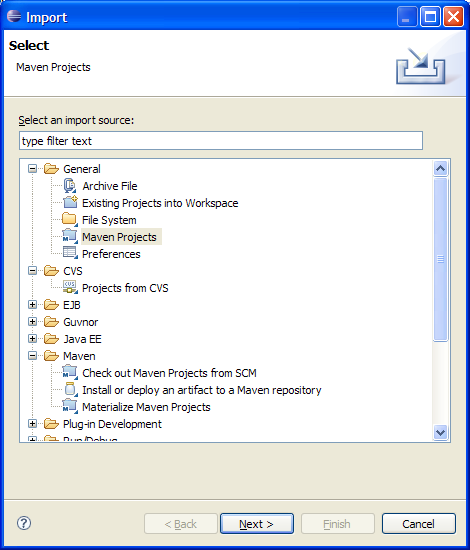
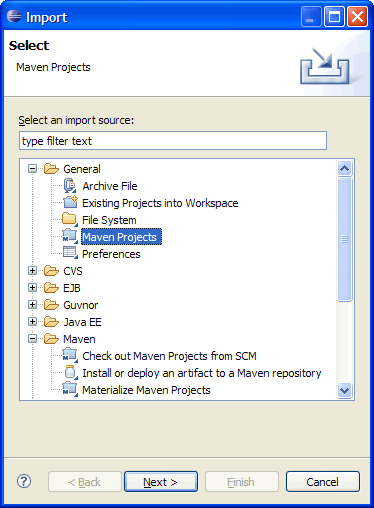
Updated tutorial: 02-eclipse.html

Changed region(s): [[0.0, 0.0, 1.0, 1.0], [0.0, 0.9744, 0.0294, 1.0]]

diff --git a/doc/tutorial/02-eclipse.html b/doc/tutorial/02-eclipse.html
@@ -152,13 +152,11 @@
   </li>
 </ol>
 
-
 <h2> Define a Data Source</h2>
 <ol>
 	<li>
 		<a href="01-gettingstarted.html#activate-a-database-profile">Create a database as outlined here.</a>
 	</li>
-	
 	<li>
 		In Preferences, navigate to <strong>Data Management>Connectivity>Driver Definitions</strong>.
 		Click <strong>Add...</strong> to add a new driver.
@@ -189,23 +187,21 @@
 	</li>
 </ol>
 
-<h2>Import a Mavenized Seam Project Into Eclipse</h2>
+<h2>Import a Mavenized Seam Project</h2>
 <p>To import a mavenized Seam project to Eclipse (i.e. a project that is already installed on your 
 	computer), follow these steps:
 </p>
 <ol>
   <li>
-		<a href="01-gettingstarted.html#use-as-template">Use the <code>seam-refimpl</code> project 
-		as a template</a> to set up the project.
+		<a href="01-gettingstarted.html#use-as-template">Export the <code>seam-refimpl</code> project</a> 
+		to a folder of your choice, the <code>${SEAM_TUTORIAL}</code> folder.
 	</li>
   <li>
-		<a href="01-gettingstarted.html#switch-to-development-mode">Switch to developmentmode</a>
+		<a href="01-gettingstarted.html#modfy-the-poms">Modify the POMs</a> and
+		<a href="01-gettingstarted.html#switch-to-development-mode">switch to development mode</a>
 	</li>
   <li>
-		Copy <code>${SEAM_TUTORIAL}/config/profiles/profiles.xml</code> to <code>${SEAM_TUTORIAL}</code>
-	</li>
-  <li>
-		Navigate to the ${SEAM_TUTORIAL} folder using a command shell and execute maven commands:<br/>
+		Navigate to the <code>${SEAM_TUTORIAL}</code> folder using a command shell and execute maven commands:<br/>
     <code>mvn clean -Punexplode<br/>
     mvn install -Pexplode (remember to point the server to the correct deploy folder in
 		<code>profiles.xml</code>)<br/>
@@ -216,9 +212,9 @@
     properly when m2eclipse is installed.
   </li>
   <li>
-    Import project:
+    Import the project:
     <img src="img/eclipse-import.png" style="width:250px; display:block;" />
-    <img src="img/eclipse-import-maven-01.png" style="width:400px; display:block;" />
+    <img src="img/eclipse-import-maven-01.png" style="width:340px; display:block;" />
     <img src="img/eclipse-import-maven-02.png" style="width:500px; display:block;" />
 		You will notice a build error in the Maven console:<br/>
     <img src="img/eclipse-import-maven-08.png" style="width:800px; display:block;" />
@@ -315,11 +311,39 @@
 	</li>
 </ol>
 
+
 <h2>Configure JBoss Tools for a Project</h2>
 <p>JBoss Tools has a lot of useful wizards and automated tasks, like reverse engeneering from 
-	an existing database and generation of user interface during creation of an entity bean. 
-	This section outlines the steps needed to configure JBoss Toos for a project.
+	an existing database and automated generation of Seam framework classes and user interface during 
+	creation of entity beans.  This section outlines the steps needed to configure JBoss Toos for a 
+	project.
 </p>
+<ol>
+	<li>
+	  The parent module:
+    <img src="img/eclipse-parent-properties-01.png" style="width:700px; display:block;" />
+    <img src="img/eclipse-parent-properties-02.png" style="width:700px; display:block;" />
+    <img src="img/eclipse-parent-properties-03.png" style="width:700px; display:block;" />
+    <img src="img/eclipse-parent-properties-04.png" style="width:700px; display:block;" />
+    <img src="img/eclipse-parent-properties-05.png" style="width:700px; display:block;" />
+	</li>
+	<li>
+	  The EAR module:
+    <img src="img/eclipse-ear-properties-01.png" style="width:700px; display:block;" />
+    <img src="img/eclipse-ear-properties-04.png" style="width:700px; display:block;" />
+    <img src="img/eclipse-ear-properties-05.png" style="width:700px; display:block;" />
+    <img src="img/eclipse-ear-properties-02.png" style="width:700px; display:block;" />
+    <img src="img/eclipse-ear-properties-03.png" style="width:700px; display:block;" />
+	</li>
+	<li>
+	  The EJB module:
+    <img src="img/eclipse-ejb-properties-02.png" style="width:700px; display:block;" />
+    <img src="img/eclipse-ejb-properties-04.png" style="width:700px; display:block;" />
+    <img src="img/eclipse-ejb-properties-05.png" style="width:700px; display:block;" />
+    <img src="img/eclipse-ejb-properties-03.png" style="width:700px; display:block;" />
+    <img src="img/eclipse-ejb-properties-01.png" style="width:700px; display:block;" />
+	</li>
+</ol>
 
 </div> <!-- #page -->
 </div> <!-- #page-wrapper -->
